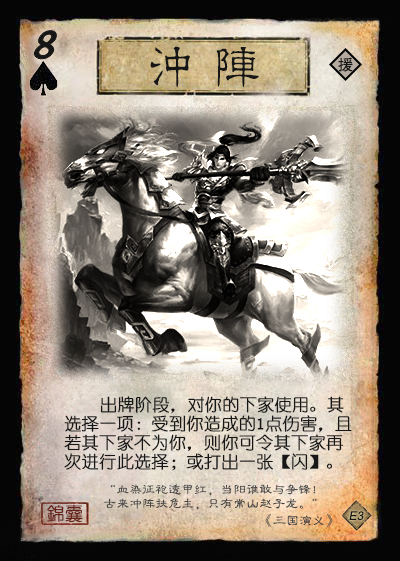
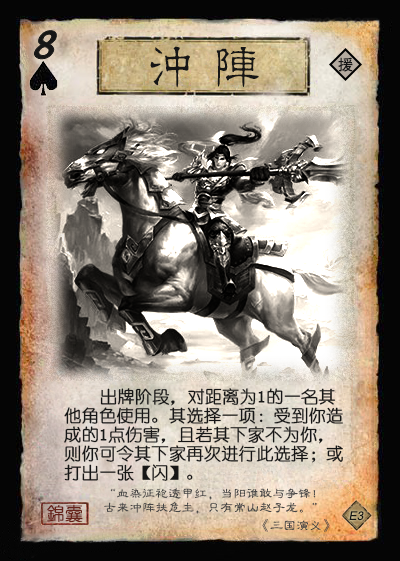
Fix in ext3.

Changed region(s): [[0.15, 0.6667, 0.87, 0.9697]]

diff --git a/SanGuoSha/SGS-RebirthProject/ext-main/ext3.md b/SanGuoSha/SGS-RebirthProject/ext-main/ext3.md
@@ -85,11 +85,12 @@
 
    > 补充标准包中减少的拆装备手段。
 5. ![冲阵](../assets/images/ext-main/ext3/E3-S8-冲阵.png) 【冲阵】：锦囊，普通  
-   出牌阶段，对你的下家使用。其选择一项：受到你造成的1点伤害，且若其下家不为你，则你可令其下家再次进行此选择；或打出一张【闪】。
+   出牌阶段，对距离为1的一名其他角色使用。其选择一项：受到你造成的1点伤害，且若其下家不为你，则你可令其下家再次进行此选择；或打出一张【闪】。
 
    > 说明：当有角色选择打出【闪】后，此结算终止，否则按照座位顺序不断向下传递直到转回自己或使用者选择停止结算为止。  
-   > 【冲阵】的结算可能影响多名角色，但目标角色只有下家一人。  
+   > 【冲阵】的结算可能影响多名角色，但目标角色只有一人。  
    > 所有【冲阵】均为援军牌，与位置相关的效果相配合，类似官方国战中的【火烧连营】。  
+   > 拥有【马术】技能的角色使用【冲阵】可以选择更多的目标，符合逻辑。  
 6. ![古锭刀](../assets/images/ext-main/ext3/E3-SA-古锭刀.png) 【古锭刀】：装备，武器 攻击范围：2  
    **锁定技**，当你使用【杀】对目标角色造成伤害时，若该角色没有手牌，则此伤害+1。
 

diff --git a/SanGuoSha/SGS-RebirthProject/real-cards.md b/SanGuoSha/SGS-RebirthProject/real-cards.md
@@ -3,4 +3,4 @@
 1. [ ] 标准：周瑜fix，张辽v2，甘宁v2
 2. [ ] 扩展1：张让bugfix，黄钺v2，皇甫嵩v2，SP刘备v2，SP刘宏改编号
 3. [ ] 扩展2：骅骝v2，SP貂蝉改编号，4张鸩毒fix
-4. [ ] 扩展3：SP袁绍改编号，SP孙坚改编号，SP诸葛亮改编号、
+4. [ ] 扩展3：SP袁绍改编号，SP孙坚改编号，SP诸葛亮改编号、3张冲阵fix
